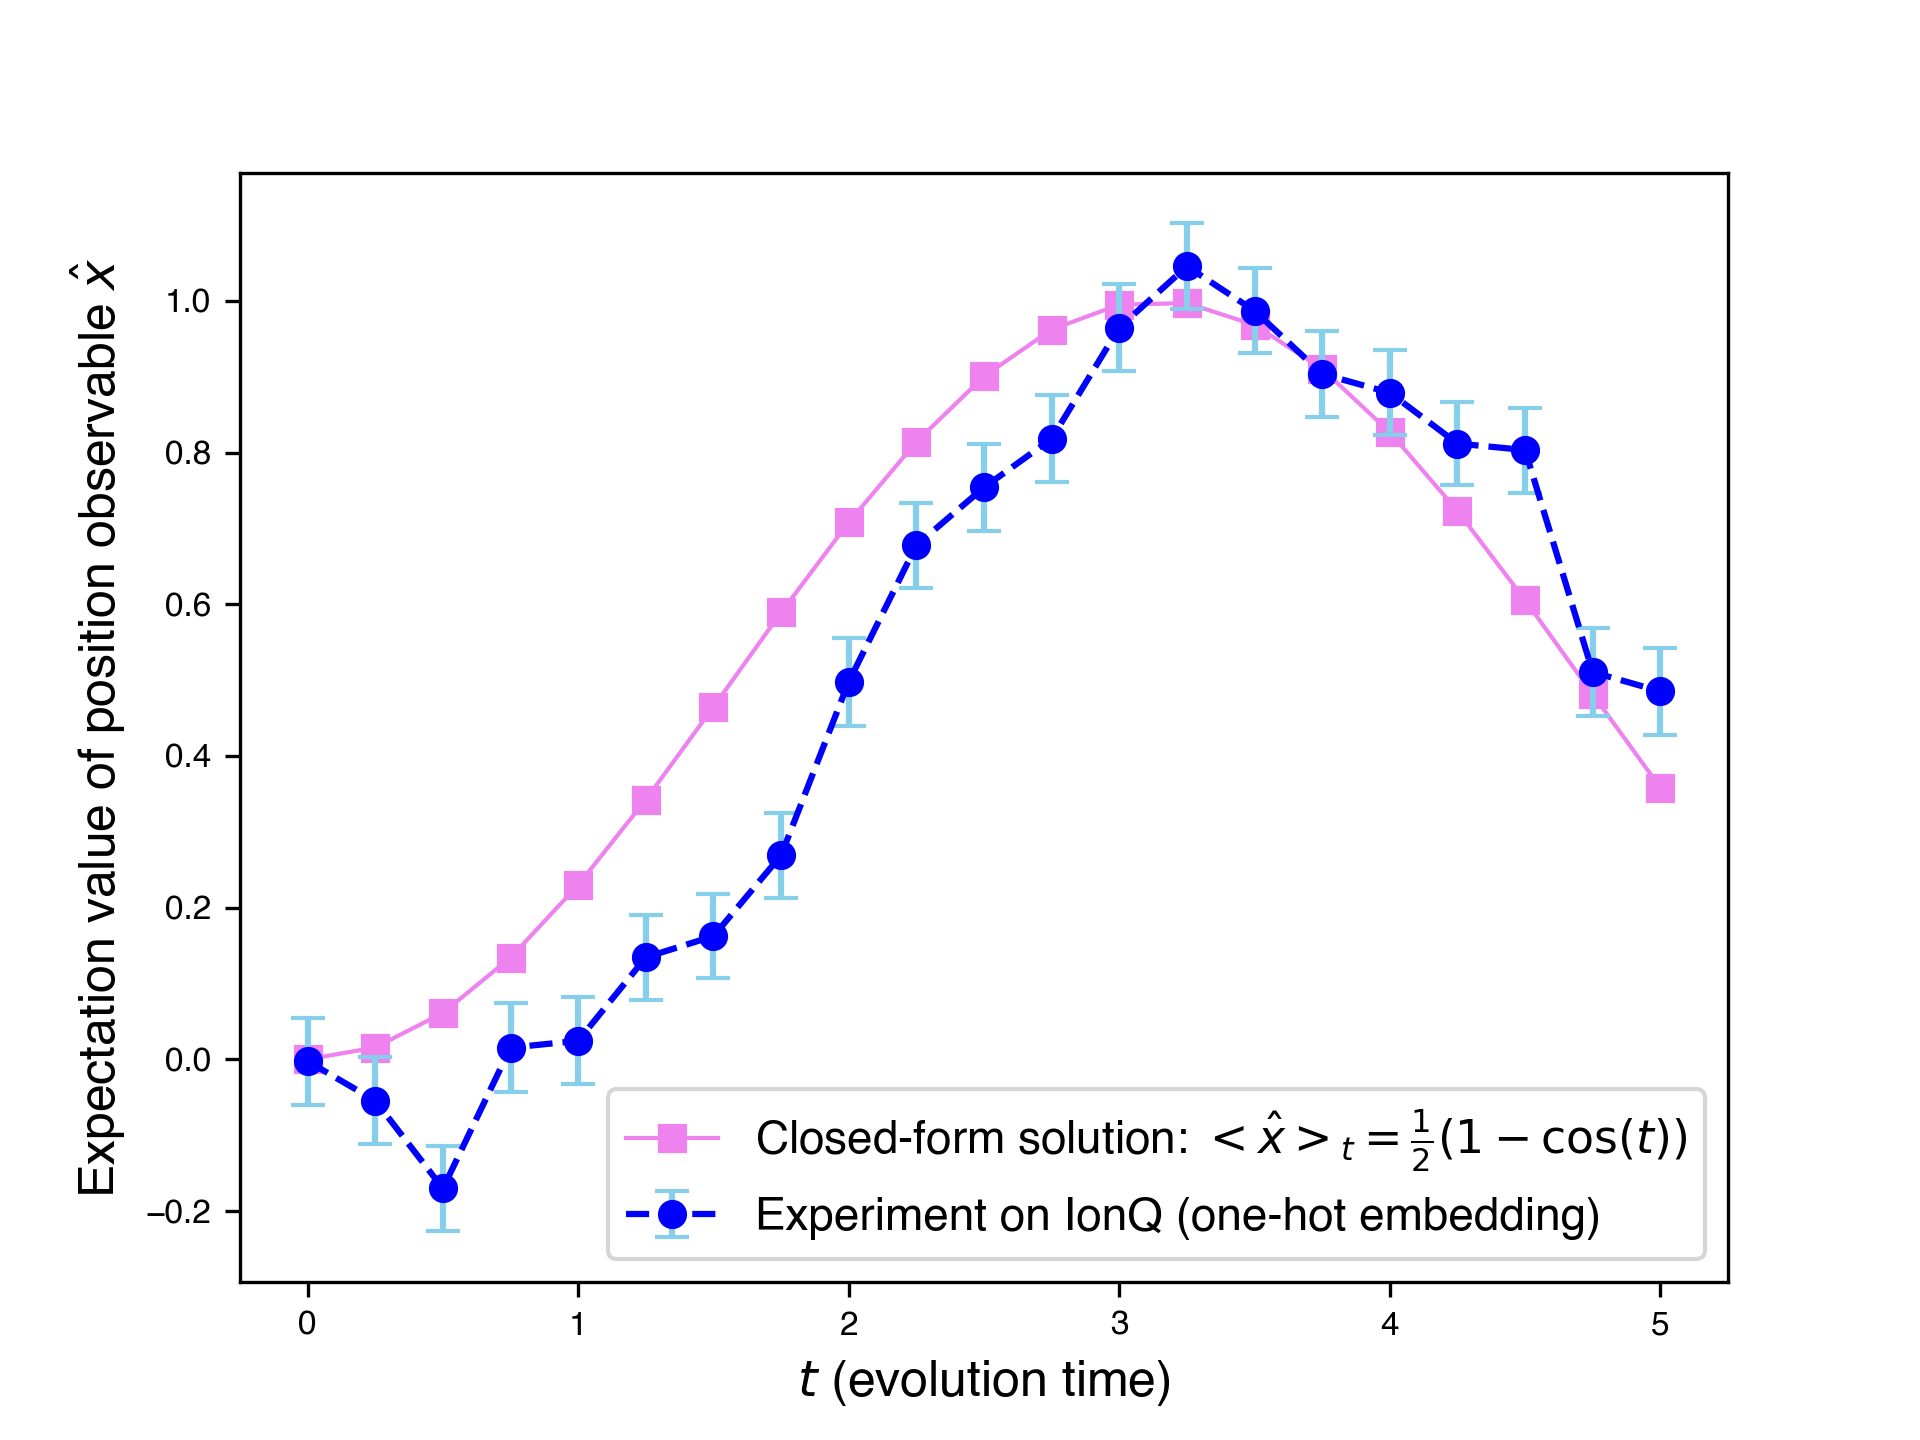
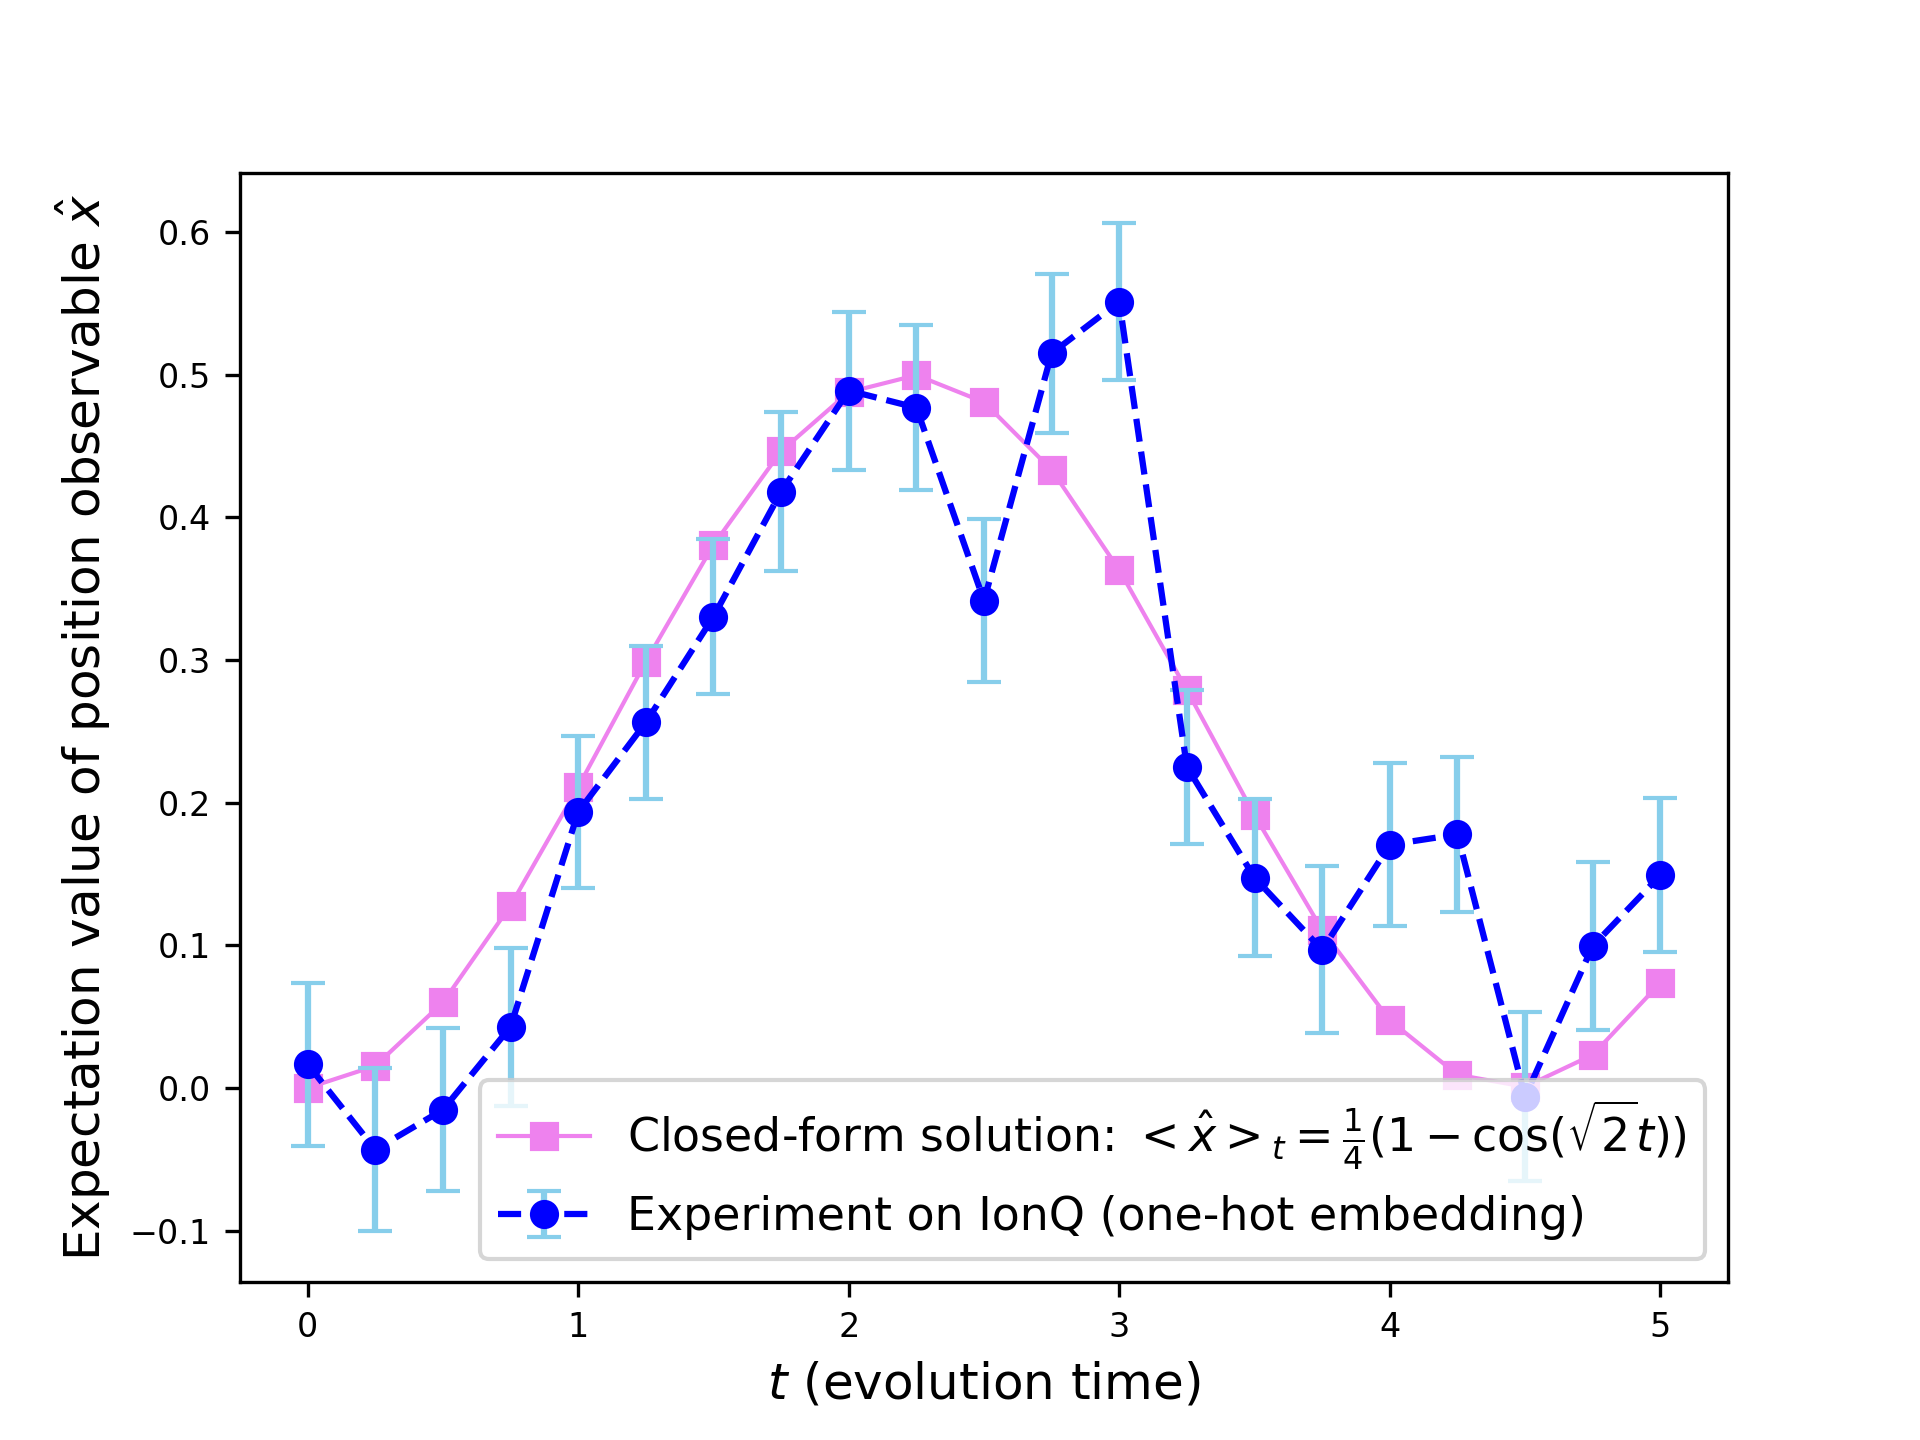
update figures

diff --git a/real_space_sim/IonQ/plot_ionq_position.py b/real_space_sim/IonQ/plot_ionq_position.py
@@ -3,20 +3,29 @@ import matplotlib.pyplot as plt
 import matplotlib.gridspec as gridspec
 
 
+T = 5
+a = 2
+b = -1/2
+num_time_points = 21
+t_vals = np.linspace(0, T, num_time_points)
+
 plt.figure()
 x = np.linspace(-2, 3, 100)
-potential = 0.5 * x **2 - 0.5 * x
+potential = 0.5 * a * x **2 + b * x
 normalize_c = (1 / np.pi) ** 0.5
 init_state = normalize_c * np.exp(- x**2)
-plt.plot(x, potential, 'r--', label=r'Potential field: $f(x) = \frac{1}{2}x^2 - \frac{1}{2}x$', linewidth=3)
+plt.plot(x, potential, 'r--', label=r'Potential field: $f(x) = x^2 - \frac{1}{2}x$', linewidth=3)
 plt.plot(x, init_state, '-', color='navy', label='Initial wave packet (vacuum state)', linewidth=3)
 plt.xlabel('x', fontsize=14)
 plt.ylabel('y', fontsize=14)
 plt.xticks(fontsize=10)
 plt.yticks(fontsize=10)
 plt.legend(fontsize=12)
-#plt.savefig('real_space_potential.png', dpi=300)
-plt.show()
+bottom, top = plt.ylim()
+plt.vlines(x=0, ymin=bottom, ymax=top)
+plt.text(0.12,1.2, r"$\langle \hat{x} \rangle = 0$", fontsize=14)
+plt.savefig('real_space_potential.png', dpi=300)
+# plt.show()
 
 
 # Load plot data
@@ -26,18 +35,13 @@ with np.load('data.npz') as data:
     ionq_data = data['x_obs_ionq']
     ionq_err = data['x_obs_ionq_err']
 
-T = 5
-a = 1
-b = -1/2
-num_time_points = 21
-t_vals = np.linspace(0, T, num_time_points)
 
 #fig = plt.figure(figsize=(100/25.4, 100/25.4), dpi=300)
 # figure setup
-plt.rcParams['font.family'] = 'Helvetica'
+# plt.rcParams['font.family'] = 'Helvetica'
 
 plt.figure()
-plt.plot(t_vals, expected_position_analytical, '-s', color="violet", label="Closed-form solution: " + r"$<\hat{x}>_t = \frac{1}{2}(1 - \cos(t))$", linewidth=1)
+plt.plot(t_vals, expected_position_analytical, '-s', color="violet", label="Closed-form solution: " + r"$<\hat{x}>_t = \frac{1}{4}(1 - \cos(\sqrt{2} t))$", linewidth=1)
 #plt.plot(t_vals, x_obs_ham_ebd, '-o', label="Hamiltonian embedding")
 #plt.plot(t_vals, ideal_data, 'ro', label="Numerical simulation (5-level subsystem)", markersize=5)
 plt.errorbar(t_vals, ionq_data, ionq_err, fmt='--o', color='blue', ecolor='skyblue', label="Experiment on IonQ (one-hot embedding)", capsize=4)
@@ -46,5 +50,5 @@ plt.xlabel(r"$t$ (evolution time)", fontsize=12)
 plt.xticks(fontsize=8)
 plt.yticks(fontsize=8)
 plt.legend(fontsize=11)
-#plt.savefig('real_space_ionq.png', dpi=300)
-plt.show()
+plt.savefig('real_space_ionq.png', dpi=300)
+# plt.show()

diff --git a/real_space_sim/IonQ/plot_ionq_kinetic_energy.py b/real_space_sim/IonQ/plot_ionq_kinetic_energy.py
@@ -11,11 +11,13 @@ with np.load('data.npz') as data:
     ionq_err = data['kinetic_energy_err']
 
 T = 5
-a = 1
+a = 2
 b = -1/2
 num_time_points = 21
 t_vals = np.linspace(0, T, num_time_points)
-kinetic_energy_analytical = a/4 - (0.5 * a * expected_position_analytical ** 2 + b * expected_position_analytical)
+analytical_exp_x_sq = 5/16 * np.cos(np.sqrt(a) * t_vals)**2 - 0.125 * np.cos(np.sqrt(a) * t_vals) + 5/16
+analytical_exp_x = (b/a) * (np.cos(np.sqrt(a) * t_vals) - 1)
+kinetic_energy_analytical = (1+a)/4 - (0.5 * a * analytical_exp_x_sq + b * analytical_exp_x)
 
 #fig = plt.figure(figsize=(100/25.4, 100/25.4), dpi=300)
 # figure setup
